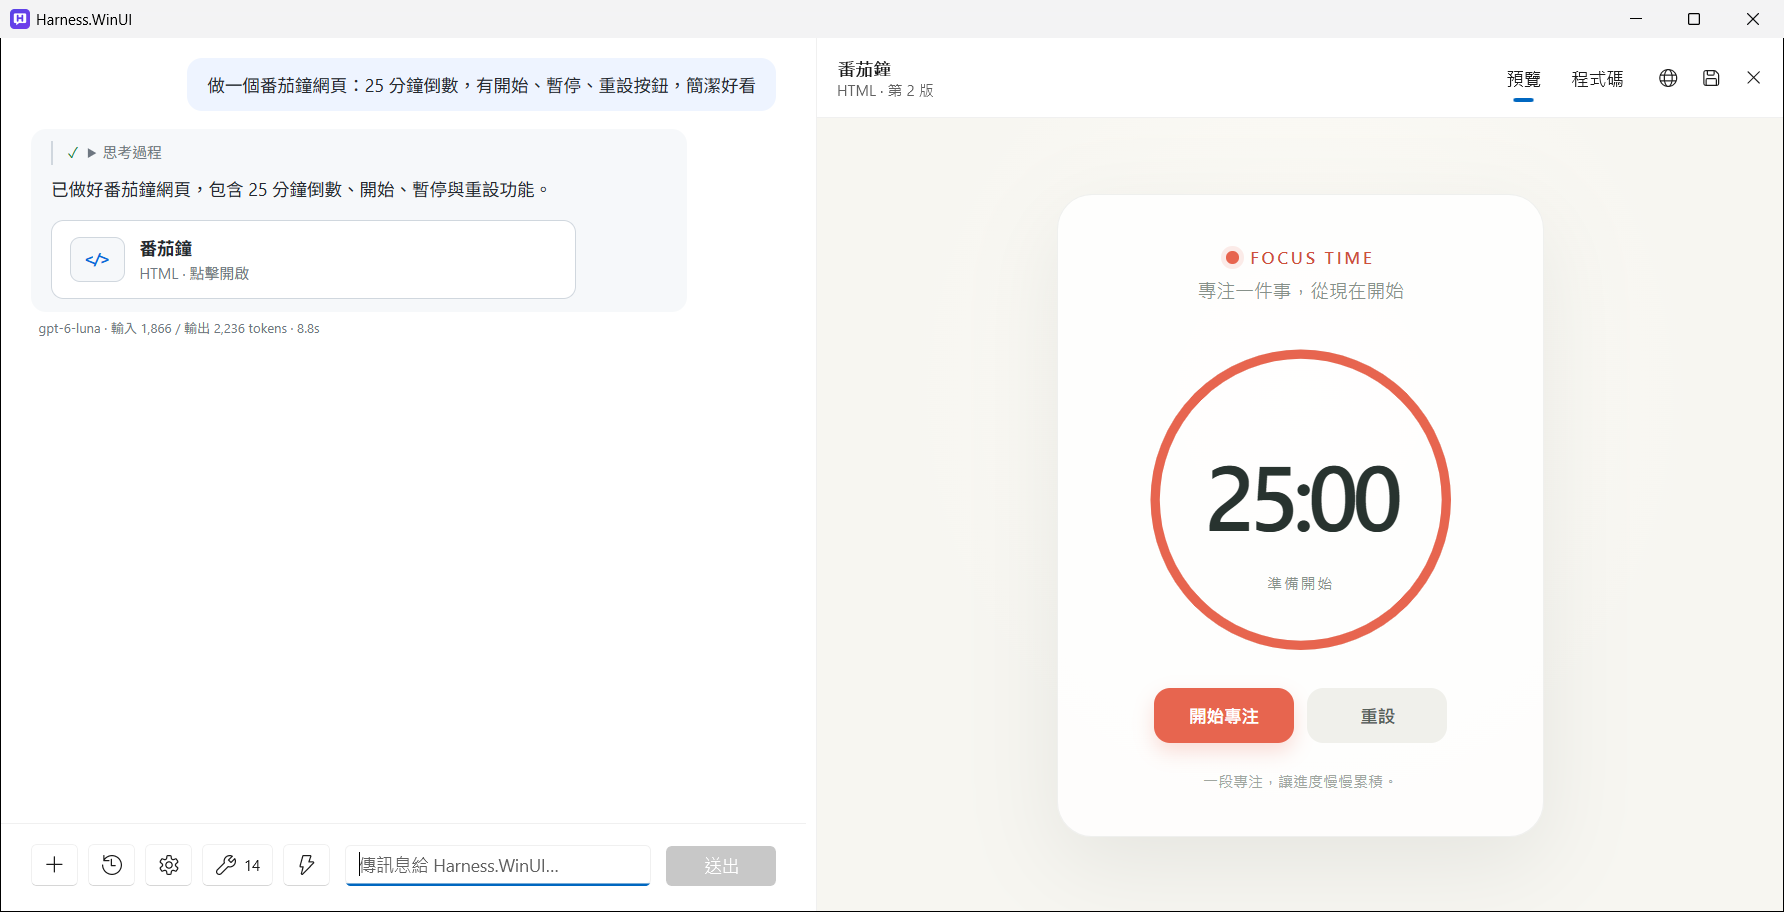
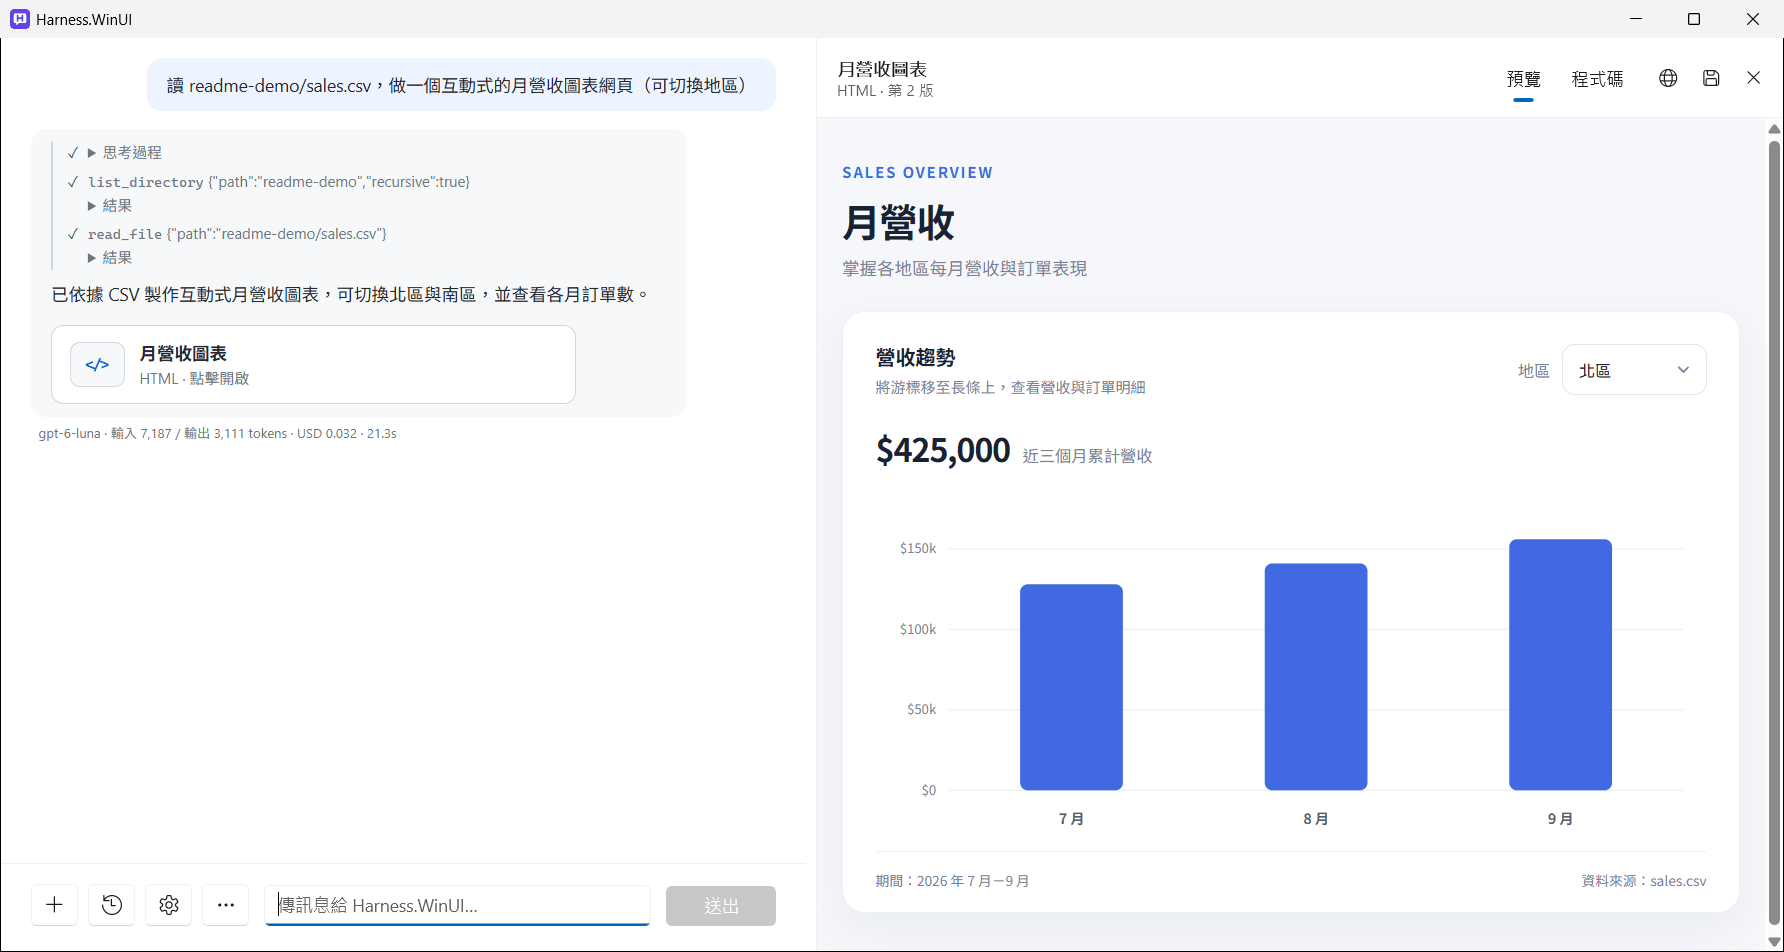
docs: new screenshots and demo for 1.0.5 (attachments, MCP Apps, observability)

diff --git a/README.md b/README.md
@@ -20,7 +20,7 @@
 </p>
 
 <p align="center">
-  <img src="docs/screenshots/demo-artifact.gif" width="860" alt="Asking Harness.WinUI for a Pomodoro timer page: the reply streams in while the side panel previews the page as it is written">
+  <img src="docs/screenshots/demo.gif" width="900" alt="Asking Harness.WinUI to turn a CSV file into an interactive revenue chart: it lists and reads the file with its tools, then the side panel previews the page as it is written">
 </p>
 
 ---
@@ -59,9 +59,17 @@ The screenshots show the Traditional Chinese UI; the English UI has the same lay
 |---|---|
 | ![File tools](docs/screenshots/file-tools.png) | ![Tool approval](docs/screenshots/tool-approval.png) |
 
-| Artifact panel: live preview | Stop / response quality |
+| Paste or drop a screenshot and ask about it | MCP Apps: a tool's own interactive UI in the chat |
 |---|---|
-| ![Artifact panel](docs/screenshots/artifact-panel.png) | ![Stop](docs/screenshots/stop.png)<br>![Response quality](docs/screenshots/quality-menu.png) |
+| ![Attachments](docs/screenshots/attachments.png) | ![MCP Apps](docs/screenshots/mcp-apps.png) |
+
+| Artifact panel: live preview |
+|---|
+| ![Artifact panel](docs/screenshots/artifact-panel.png) |
+
+| Observability: each turn as a timeline, with what the model saw | Statistics, and AI analysis of the records |
+|---|---|
+| ![Observability](docs/screenshots/observability.png) | ![Observability statistics and AI analysis](docs/screenshots/observability-ai.png) |
 
 ### Download
 
@@ -191,9 +199,17 @@ Main packages: Microsoft.Agents.AI, Microsoft.Extensions.AI, OpenAI .NET SDK, Mo
 |---|---|
 | ![檔案工具](docs/screenshots/file-tools.png) | ![工具核准](docs/screenshots/tool-approval.png) |
 
-| 成品面板：即時預覽 | 停止回應 / 回應品質 |
+| 貼上或拖入截圖直接提問 | MCP Apps：工具自帶的互動介面直接顯示在對話裡 |
 |---|---|
-| ![成品面板](docs/screenshots/artifact-panel.png) | ![停止](docs/screenshots/stop.png)<br>![回應品質](docs/screenshots/quality-menu.png) |
+| ![附件](docs/screenshots/attachments.png) | ![MCP Apps](docs/screenshots/mcp-apps.png) |
+
+| 成品面板：即時預覽 |
+|---|
+| ![成品面板](docs/screenshots/artifact-panel.png) |
+
+| 可觀測性：每個回合的時間軸，以及模型實際看到的內容 | 統計與 AI 分析 |
+|---|---|
+| ![觀測](docs/screenshots/observability.png) | ![統計與 AI 分析](docs/screenshots/observability-ai.png) |
 
 ### 下載
 

diff --git a/CHANGELOG.md b/CHANGELOG.md
@@ -17,6 +17,11 @@
 - Built on Microsoft.Extensions.AI's OpenTelemetry instrumentation (GenAI semantic conventions); with
   recording off it adds no work
 
+### Fixed
+- With the artifact panel open (or a narrow window) the toolbar squeezed the message box to a sliver;
+  buttons that don't fit now move into the More (…) menu until there's room
+- Tables in replies had no borders; they now have a frame, header divider, row lines and shading
+
 ## [1.0.4] - 2026-10-02
 
 ### Added
